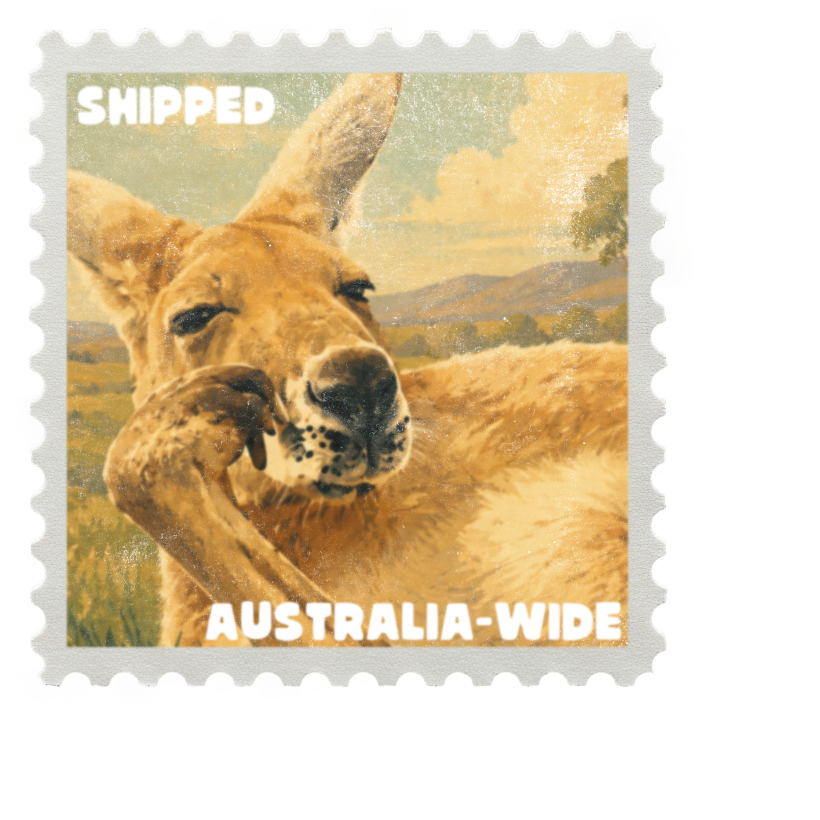
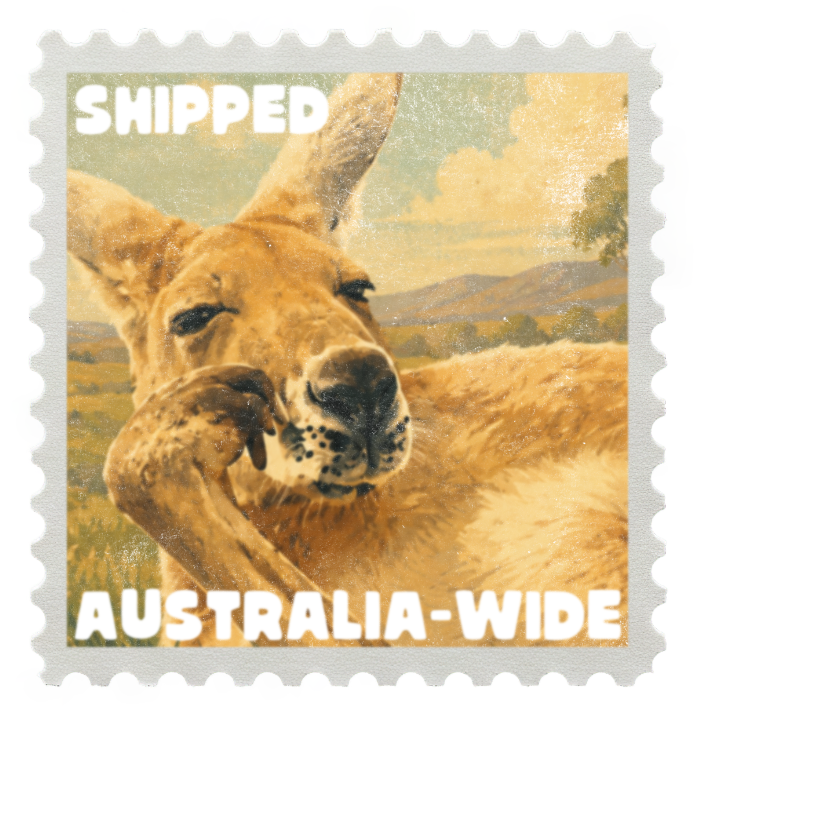
Place updated stamp across hero boundary

Changed region(s): [[0.0915, 0.7012, 0.7622, 0.7927], [0.0915, 0.0915, 0.4268, 0.1829]]

diff --git a/index.html b/index.html
@@ -21,7 +21,7 @@
   <link rel="preconnect" href="https://fonts.gstatic.com" crossorigin />
   <link rel="stylesheet" href="/Homepage/desktop.css?v=20260902-helvetica-hero" media="screen and (min-width: 1101px)" />
   <link rel="stylesheet" href="/Homepage/mobile.css?v=20260902-helvetica-hero-v2" media="screen and (max-width: 1100px)" />
-  <link rel="stylesheet" href="/Shared/logo.css?v=20260903-hero-stamp-size" />
+  <link rel="stylesheet" href="/Shared/logo.css?v=20260903-hero-stamp-join" />
   <link rel="stylesheet" href="/Shared/mobile-header.css?v=20260819-rebuilt-announcement" />
   <link rel="stylesheet" href="/Homepage/mobile-overrides.css?v=20260820-mobile-left-footer" />
   <link rel="stylesheet" href="/Shared/site-shell.css?v=20260824-pure-black-footer" />

diff --git a/Shared/logo.css b/Shared/logo.css
@@ -2005,16 +2005,18 @@ body.homepage .editorial-hero-pair {
 
   #homepage-root .editorial-hero--feature {
     position: relative;
+    z-index: 2;
+    overflow: visible !important;
   }
 
   #homepage-root .hero-shipping-stamp--desktop {
     position: absolute;
     z-index: 2;
-    top: clamp(72px, 15%, 116px);
-    left: clamp(12px, 2vw, 36px);
+    top: 22%;
+    left: 0;
     width: clamp(120px, 8.75vw, 147.5px);
-    filter: drop-shadow(0 8px 14px rgba(7, 7, 7, 0.2));
-    transform: rotate(5deg);
+    filter: drop-shadow(0 2px 2px rgba(7, 7, 7, 0.22));
+    transform: translateX(-30%) rotate(4deg);
     transform-origin: center;
   }
 }
